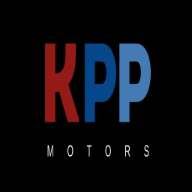
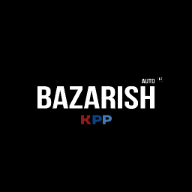
udpates

diff --git a/src/components/Header.jsx b/src/components/Header.jsx
@@ -29,18 +29,16 @@ const Header = () => {
 
 	return (
 		<header
-			className={`fixed top-0 left-0 w-full p-4 flex justify-between items-center transition-all duration-300 z-50 ${
-				isScrolled
-					? 'bg-black shadow-lg py-3'
-					: 'sm:bg-transparent py-4 bg-black'
+			className={`pr-8 fixed top-0 left-0 w-full flex justify-between items-center transition-all duration-300 z-50 ${
+				isScrolled ? 'bg-black shadow-lg' : 'sm:bg-transparent bg-black'
 			}`}
 		>
 			<div className='flex items-center'>
 				<Link to='/'>
 					<img
-						src='https://res.cloudinary.com/pomegranitedesign/image/upload/v1738139100/kpp-motors/logo.png.png'
+						src='https://res.cloudinary.com/pomegranitedesign/image/upload/v1738139100/kpp-motors/logo.jpeg'
 						alt='KPP Motors Logo'
-						className='h-12'
+						className='h-25'
 					/>
 				</Link>
 			</div>

diff --git a/src/components/ContactSection.jsx b/src/components/ContactSection.jsx
@@ -9,7 +9,7 @@ import {
 const ContactSection = () => {
 	return (
 		<div className='bg-gray-800 text-white py-12 px-4 text-center'>
-			<h2 className='text-3xl font-bold mb-6'>KPP Motors всегда на связи</h2>
+			<h2 className='text-3xl font-bold mb-6'>Bazarish Auto всегда на связи</h2>
 			<div className='flex flex-col md:flex-row justify-center items-center gap-8'>
 				{/* Телефоны */}
 				<div className='flex flex-col items-start gap-3'>

diff --git a/src/components/Footer.jsx b/src/components/Footer.jsx
@@ -8,8 +8,8 @@ const Footer = () => {
 				{/* Логотип */}
 				<div className='mb-4 md:mb-0'>
 					<img
-						className='h-20'
-						src='https://res.cloudinary.com/pomegranitedesign/image/upload/v1738139100/kpp-motors/logo.png.png'
+						className='h-25'
+						src='https://res.cloudinary.com/pomegranitedesign/image/upload/v1738139100/kpp-motors/logo.jpeg'
 						alt='KPP Motors Логотип'
 					/>
 				</div>

diff --git a/index.html b/index.html
@@ -5,7 +5,7 @@
 		<!-- Favicon -->
 		<link rel="icon" href="/favicon.ico" />
 		<meta name="viewport" content="width=device-width, initial-scale=1.0" />
-		<title>KPP Motors Автодилер</title>
+		<title>Bazarish Avto | Твой Путеводитель в Мир Авто #1</title>
 	</head>
 	<body>
 		<div id="root"></div>

diff --git a/src/components/WhyUsSection.jsx b/src/components/WhyUsSection.jsx
@@ -9,7 +9,7 @@ const WhyUsSection = () => {
 				animate={{ opacity: 1, y: 0 }}
 				transition={{ duration: 0.5 }}
 			>
-				Почему KPP Motors?
+				Почему Bazarish Auto?
 			</motion.h2>
 			<div className='grid grid-cols-1 md:grid-cols-4 gap-6'>
 				{[
